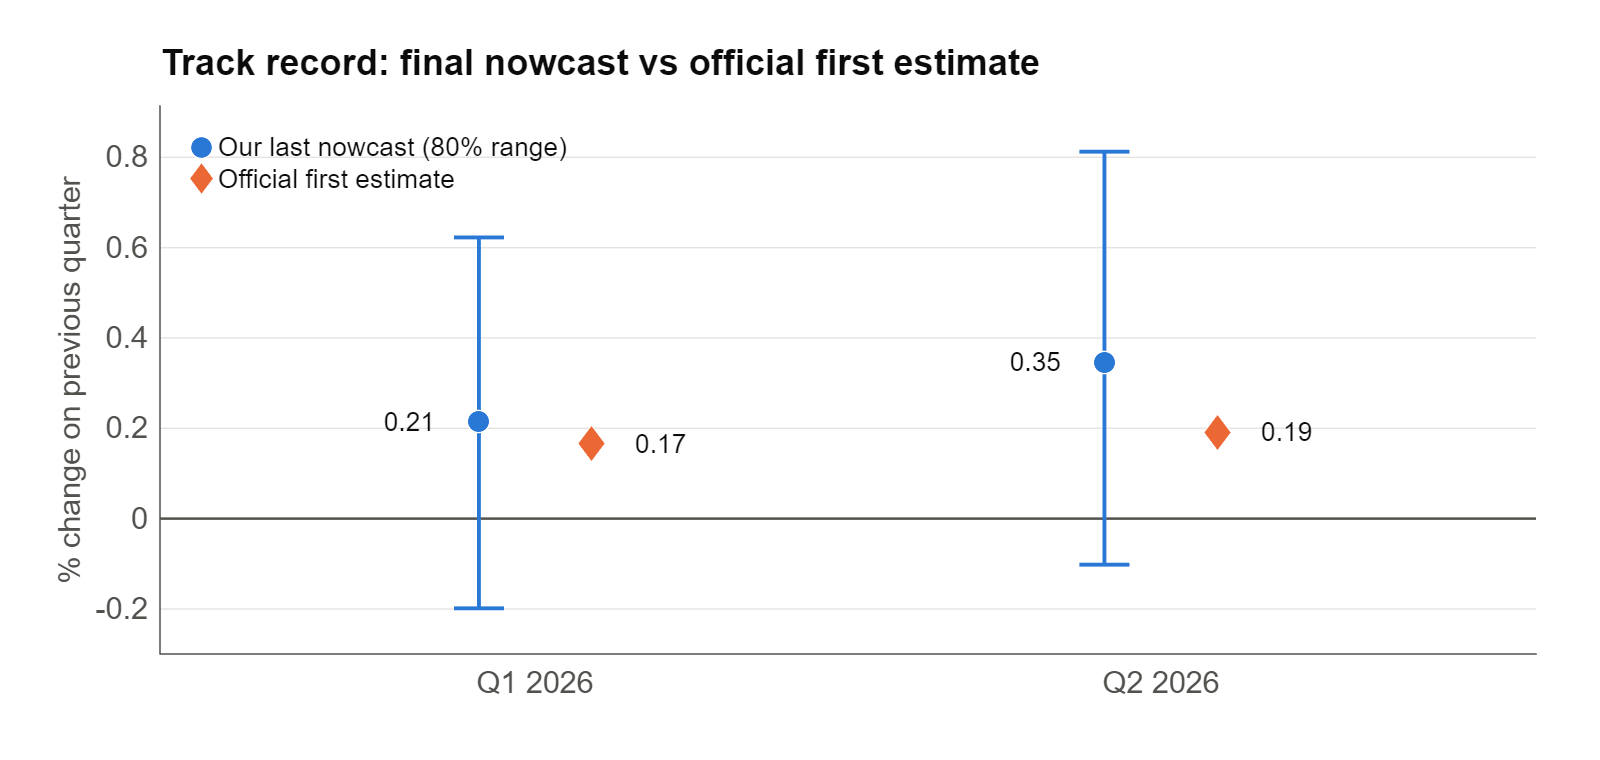
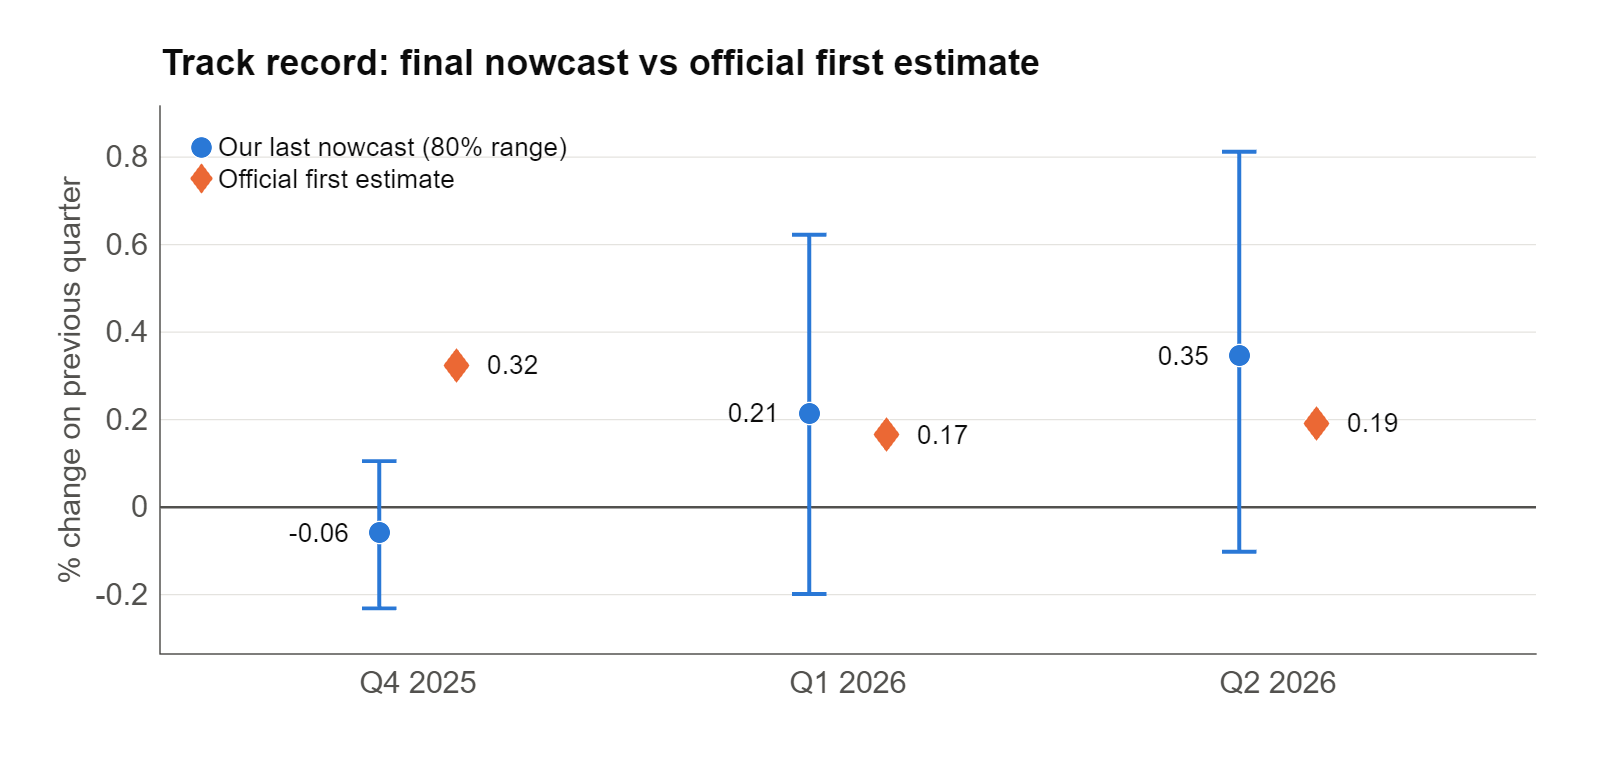
fixed figures

diff --git a/_pages/nowcast.md b/_pages/nowcast.md
@@ -51,6 +51,7 @@ Every quarter we compare our last estimate before the official release with ISTA
 |---|---:|---:|---:|---:|
 | Q2 2026 | 0.35% | -0.10% to 0.81% | 0.19% | +0.15 pp |
 | Q1 2026 | 0.21% | -0.20% to 0.62% | 0.17% | +0.05 pp |
+| Q4 2025 | -0.06% | -0.23% to 0.11% | 0.32% | -0.38 pp |
 
 ![Weekly nowcasts for Q2 2026 versus the official figure](web_previous_quarter.png)
 
@@ -162,4 +163,4 @@ Every quarter we compare our last estimate before the official release with ISTA
 
 ---
 
-<small>Page generated automatically on 06 Oct 2026 14:44.</small>
+<small>Page generated automatically on 06 Oct 2026 15:44.</small>
